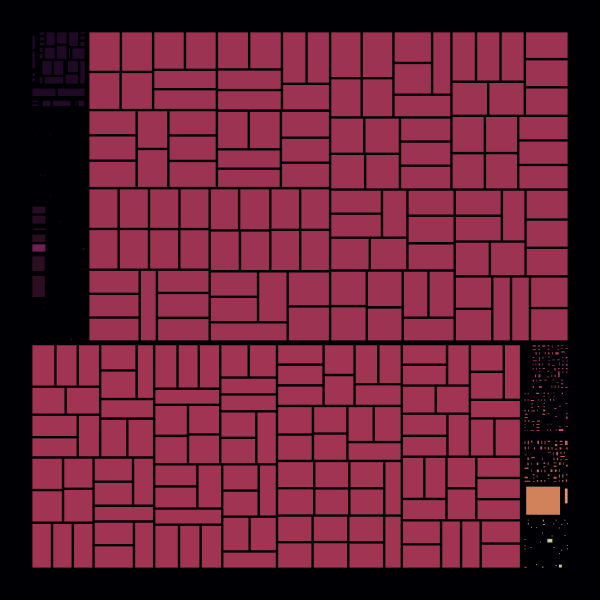
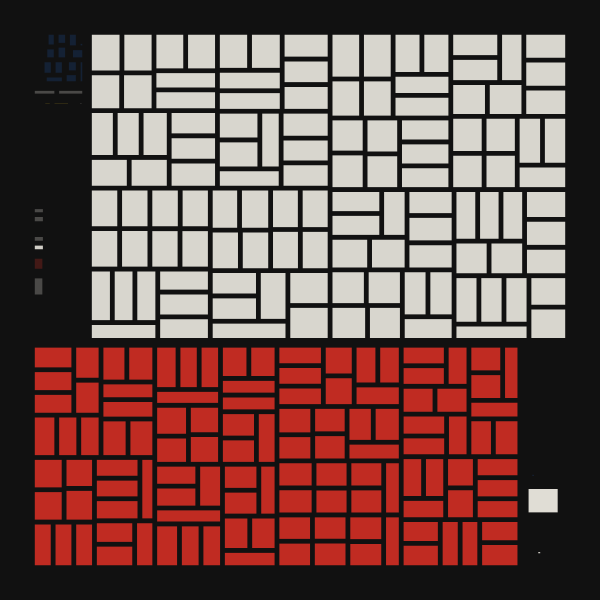
Add a discrete mondrian palette
Processes cycle through off-white, red, blue and yellow instead of
blending, and it is the default palette for the mondrian style. Mondrian
blocks are more solid, with thicker lines.

diff --git a/README.md b/README.md
@@ -77,7 +77,7 @@ arts {
 | `enabled` | `true` | Create the artwork at the end of the run. |
 | `file` | `art-<runName>.svg` | Output file. The `.svg` or `.png` extension sets the format. Cloud paths work too. An existing file is overwritten. |
 | `style` | `radial` | `radial`, `hilbert`, `ridgeline`, `phyllotaxis`, `flowfield`, `mondrian` or `tree`. |
-| `palette` | `viridis` | `viridis`, `magma`, `nfcore`, `ocean`, `sunset` or `mono`. |
+| `palette` | `viridis` | `viridis`, `magma`, `nfcore`, `ocean`, `sunset`, `mono` or `mondrian`. `mondrian` is the default for the mondrian style. |
 | `colors` | | List of hex colors. Overrides `palette`. |
 | `background` | from palette | Hex background color. |
 | `width`, `height` | `1200` | Size in pixels (16 to 10000). |
@@ -94,7 +94,7 @@ arts {
 
 **flowfield**: each task is a brush stroke drifting through a flow field seeded by the run. A stroke starts at the task's place in start order (x), in its process's row (y). Stroke length is duration and width is peak memory.
 
-**mondrian**: the canvas is split into one block per process, then one block per task, with area proportional to duration. Opacity is peak memory and failed tasks are hollow.
+**mondrian**: the canvas is split into one block per process, then one block per task, with area proportional to duration. Opacity is peak memory and failed tasks are hollow. Its default `mondrian` palette does not blend: processes cycle through off-white, red, blue and yellow, on black lines.
 
 **tree**: the run is the trunk, and each process is a branch, in start order from the bottom up. Branch length is how long the process was active. Each task is a twig with a leaf: twig length is duration and leaf size is peak memory. Failed tasks have no leaf.
 
